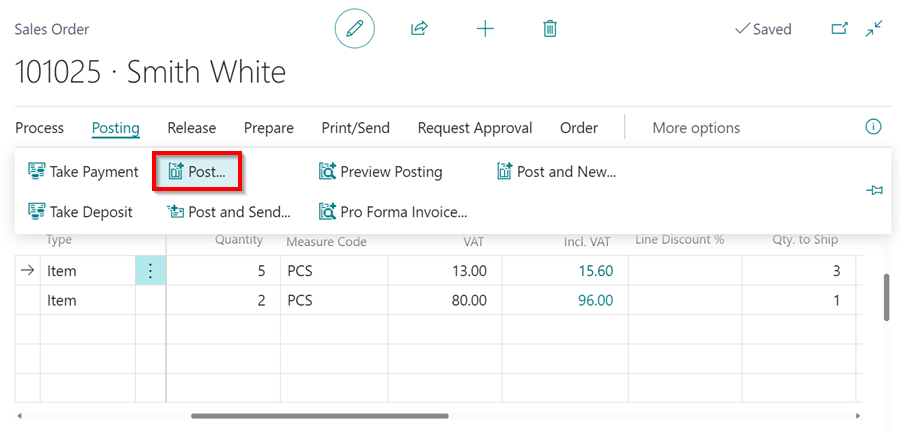
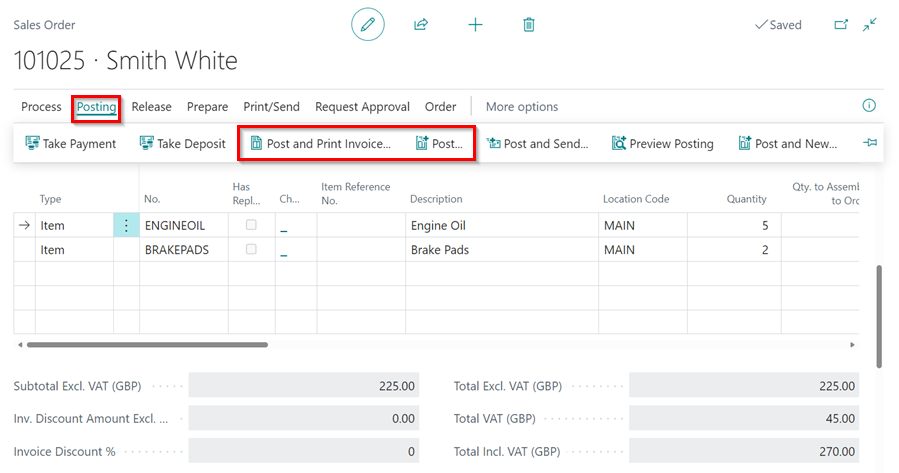
Fixing typos and improving user instructions for adding optional tiles and using parts sales order

diff --git a/docs/garagehive-using-parts-sales-order.md b/docs/garagehive-using-parts-sales-order.md
@@ -47,17 +47,26 @@ Here's how to create the **Sales Order** in Garage Hive:
 [Go back to top](#top)
 
 ### Ship or Invoice the Parts Sales Order
-1. When you are ready to ship or invoice the order, select **Posting** from the menu bar and then **Post**. You are given three options: 
+1. When you are ready to ship or invoice the order, select **Posting** from the menu bar and choose **Post and Print Invoice**, to post and print the invoice. Alternatively, if you only want to post the invoice without printing it, select **Post**.
+
+   ![](media/garagehive-parts-sales-order-ship-or-invoice1.png)
+
+2. You get three options: 
    * **Ship** - if the customer hasn't paid but you have sent the parts to the customer.
    * **Invoice** - can be used once the parts are shipped to create the sales invoice.
    * **Ship and Invoice** - if the customer has paid and you have sent the parts to the customer at the same time.
   
    Choose the suitable one for you and click **OK**.
 
-2. In the next window, select the method of payment from the customer and enter the amount in the **Amount** field to receive the payment. Click the **Close** button.
-3. In the next dialogue box, confirm the posting date and click **Yes** to continue. The **Sales Order** has been posted successfully. To view the invoice, open it.
+      ![](media/garagehive-parts-sales-order-ship-or-invoice2.png)
 
-   ![](media/garagehive-parts-sales-order4.gif)
+3. In the next window, select the method of payment from the customer and enter the amount in the **Amount** field to receive the payment. Click the **Close** button.
+
+   ![](media/garagehive-parts-sales-order-ship-or-invoice3.png)
+
+4. Confirm the posting date in the next popup box, click **Yes** to proceed or **No** if you want to modify the dates. Once confirmed, the Sales Order will be successfully posted. To view the invoice, simply open it.
+
+   ![](media/garagehive-parts-sales-order-ship-or-invoice4.png)
 
 
 [Go back to top](#top)
@@ -68,7 +77,7 @@ To partially Ship some of the items:
 
    ![](media/garagehive-parts-sales-order-ship1.png)
 
-2. Select **Posting** from the menu bar, choose **Posting**.
+2. To post and print the invoice, select **Posting** from the menu bar and choose **Post and Print Invoice**. Alternatively, if you only want to post the invoice without printing it, select **Post**.
 
    ![](media/garagehive-parts-sales-order-ship2.png)
 

diff --git a/docs/garagehive-adding-optional-tiles.md b/docs/garagehive-adding-optional-tiles.md
@@ -27,7 +27,7 @@ To add these tiles in the **Role Centre**:
 
    ![](media/garagehive-optional-tiles1.gif)
 
-3. To add the **User Tasks**, **Document Attention**, **Jobsheet Complete**, and **Current VI's** tiles to the **Role Centre**, simply slide the slider on the right-hand side column of the under the **General** FastTab.
+3. To add the **User Tasks**, **Document Attention**, **Jobsheet Complete**, and **Current VI's** tiles to the **Role Centre**, simply slide the slider on the right-hand side column of the **General** FastTab.
 
    ![](media/garagehive-optional-tiles2.gif)
 
